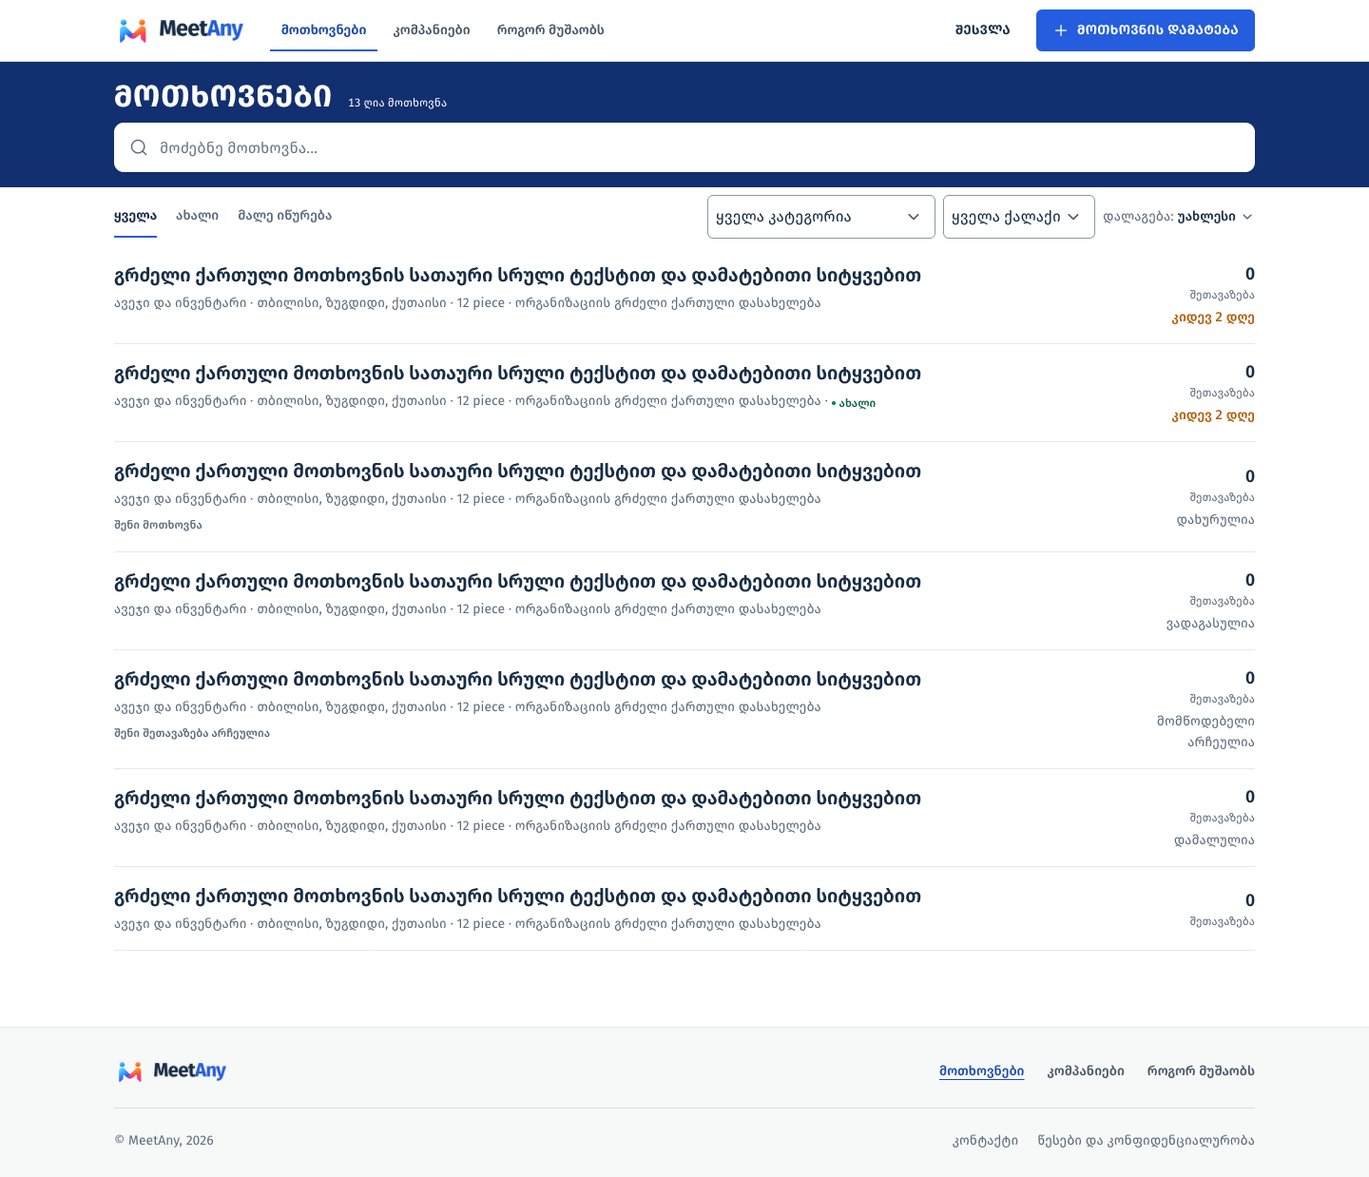
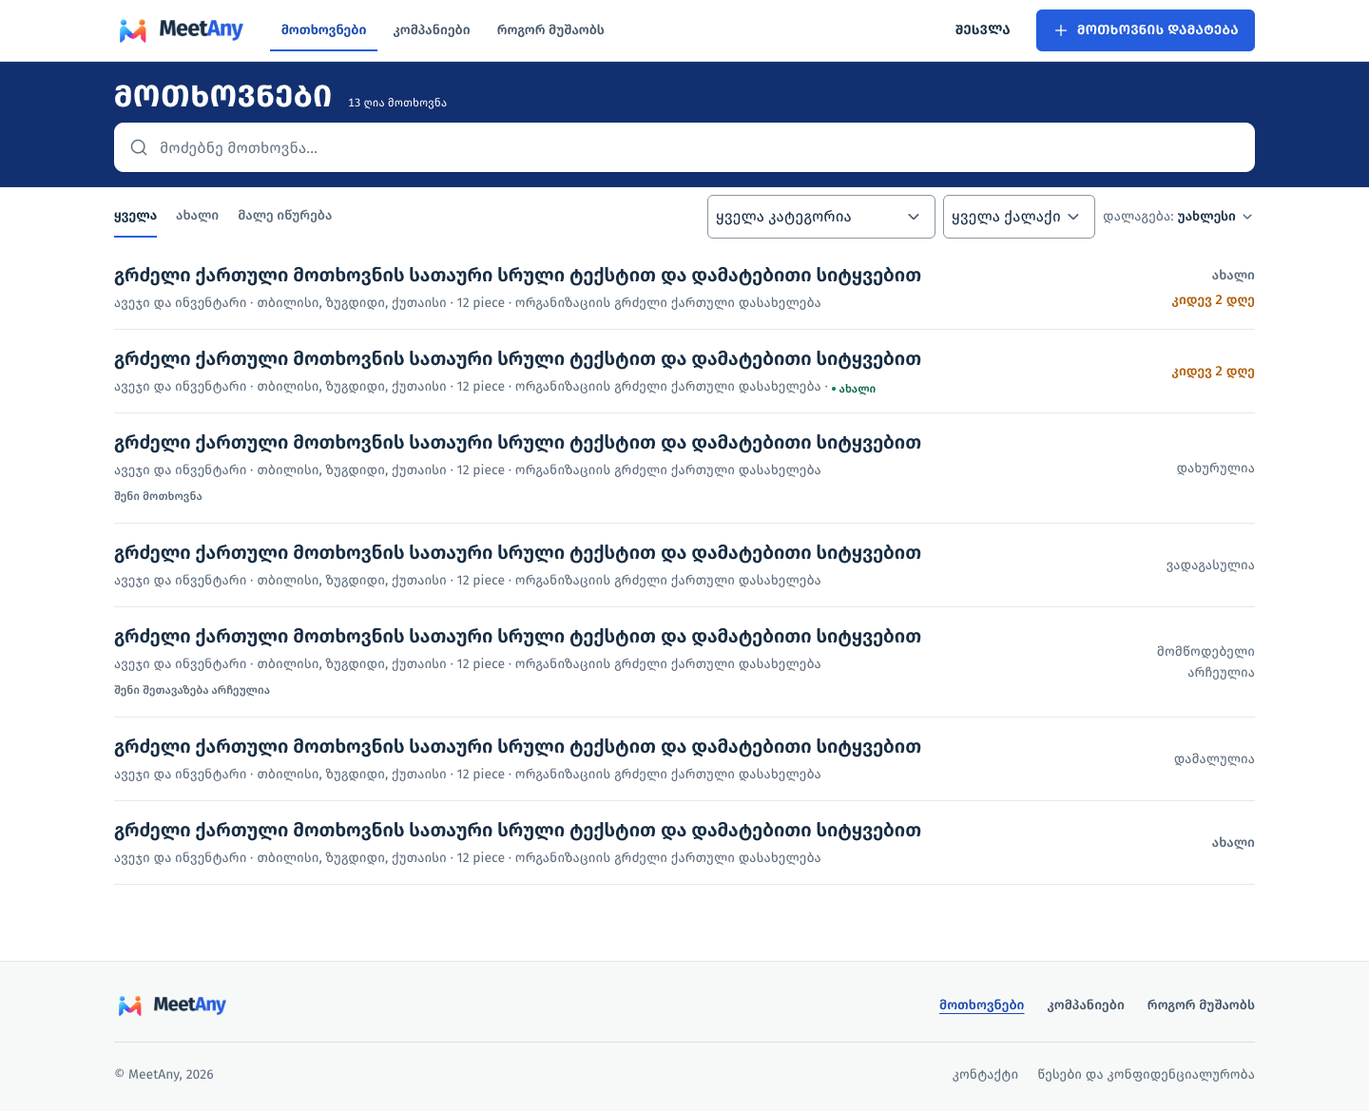
P11 T11.6: catalog review fixes (single axis, photo column, VIP tint, company row)
DevApp-Thread: კატალოგები 3

diff --git a/web/app/styles/marketplace.css b/web/app/styles/marketplace.css
@@ -289,22 +289,25 @@
 .ma-proto .catalog-page :is(.listing-identity h3,.ma-rcard__title){display:block;margin:0;min-width:0;font-size:var(--fs-h3);line-height:var(--lh-h3);font-weight:var(--fw-semibold);font-feature-settings:var(--catalog-title-case);letter-spacing:normal;white-space:normal;overflow:visible;overflow-wrap:anywhere;-webkit-line-clamp:unset}
 .companies-catalog .company-directory-list{display:grid;gap:var(--space-0)}
 .companies-catalog .ma-proto-columns>section{gap:0}
-.ma-proto .companies-catalog .supplier-row{display:grid;grid-template-columns:var(--space-12) minmax(0,1fr) minmax(calc(var(--space-24)*2 + var(--space-3)),max-content);gap:0 var(--space-5);align-items:start}
+.ma-proto .companies-catalog .supplier-row{display:grid;grid-template-columns:var(--space-12) minmax(0,1fr) max-content;gap:0 var(--space-5);align-items:start}
 .companies-catalog .supplier-row>.ma-avatar{grid-area:1 / 1 / 3;width:var(--space-12);height:var(--space-12);background:var(--avatar-bg);color:var(--avatar-text);font-size:var(--fs-title);font-weight:var(--fw-semibold);border-radius:var(--radius-md)}
 .companies-catalog .listing-identity{grid-area:1 / 2;min-width:0}
 .companies-catalog .listing-location{margin:var(--space-1) 0 0;color:var(--text-3);font-size:var(--fs-sm);line-height:var(--lh-sm);white-space:normal;overflow-wrap:anywhere}
+.companies-catalog .listing-about{grid-area:2 / 2;margin:var(--space-2) 0 0;font-size:var(--fs-sm);line-height:var(--lh-sm);color:var(--text-2);white-space:nowrap;overflow:hidden;text-overflow:ellipsis}
 .companies-catalog .listing-products{grid-area:2 / 2;margin:var(--space-2) 0 0;font-size:var(--fs-sm);line-height:var(--lh-sm);font-weight:var(--fw-regular);color:var(--text-2);display:-webkit-box;-webkit-box-orient:vertical;-webkit-line-clamp:2;overflow:hidden;max-height:calc(var(--lh-sm)*2)}
-.companies-catalog .listing-utilities{grid-area:1 / 3;justify-self:end}
+/* Desktop: one action row [save][number], centred on the row. */
+.companies-catalog .listing-actions{grid-area:1 / 3 / 3 / 4;align-self:center;display:flex;align-items:center;gap:var(--space-2)}
 .companies-catalog .listing-utilities button{display:grid;place-items:center;width:var(--tap-min);height:var(--tap-min);min-width:var(--tap-min);padding:0;border:0;border-radius:0;background:transparent;box-shadow:none;transform:none}
 .companies-catalog .listing-utilities button>span{position:absolute;width:1px;height:1px;overflow:hidden;clip-path:inset(50%)}
 .companies-catalog .listing-utilities .icon{width:var(--icon);height:var(--icon)}
-.companies-catalog .supplier-contact{grid-area:2 / 3;display:flex;flex-direction:column;align-items:flex-end;gap:0;min-width:0;max-width:260px}
-.companies-catalog .supplier-contact .ma-btn{width:100%;white-space:normal;overflow-wrap:anywhere;border:1px solid var(--border-strong);border-radius:var(--radius-sm);background:var(--white);color:var(--action);box-shadow:none;min-height:var(--tap-min)}
+.companies-catalog .supplier-contact{display:flex;align-items:center;gap:0;min-width:0;max-width:260px}
+.companies-catalog .supplier-contact .ma-btn{width:100%;min-width:calc(var(--space-24)*2 + var(--space-3));white-space:normal;overflow-wrap:anywhere;border:1px solid var(--border-strong);border-radius:var(--radius-sm);background:var(--white);color:var(--action);box-shadow:none;min-height:var(--tap-min)}
 /* Revealed number stays on one line; the column widens to max-content (≤260px) instead of wrapping. */
 .companies-catalog .supplier-contact .ma-btn[data-contact-action=call]{white-space:nowrap;overflow-wrap:normal}
-.companies-catalog .listing-directions{display:inline-flex;align-items:center;gap:var(--space-1);min-height:var(--tap-min);color:var(--text-link);text-decoration:none}
+.companies-catalog .listing-directions{display:inline-flex;align-items:center;gap:var(--space-1);color:var(--text-link);text-decoration:none;font-weight:var(--fw-medium);white-space:nowrap}
 .companies-catalog .listing-directions .icon{width:var(--icon-sm);height:var(--icon-sm)}
 .companies-catalog .listing-directions:hover{text-decoration:underline}
+.companies-catalog .listing-directions--icon{display:none}
 .companies-catalog .ma-proto-filters{display:grid;grid-template-columns:minmax(0,1fr);gap:var(--space-5)}
 .companies-catalog .ma-proto-filters>*{min-width:0}
 .companies-catalog .filter-rail{border:0;box-shadow:none;padding:0}
@@ -313,6 +316,7 @@
 .companies-catalog .facet-label{white-space:nowrap}
 .companies-catalog .facet-count{font-size:var(--fs-xs);line-height:var(--lh-xs);font-variant-numeric:tabular-nums;color:var(--text-3)}
 .companies-catalog .ma-proto-filter--empty:not([aria-pressed=true]),.companies-catalog .ma-proto-filter--empty:not([aria-pressed=true]) .facet-count{color:var(--text-disabled)}
+.companies-catalog .facet-group-title{margin:var(--space-3) 0 0;font-size:var(--fs-xs);line-height:var(--lh-xs);font-weight:var(--fw-regular);color:var(--text-3);font-feature-settings:var(--catalog-title-case);letter-spacing:normal}
 .companies-catalog .ma-proto-filter[aria-pressed=true]{color:var(--text-link);font-weight:var(--fw-semibold)}
 .companies-catalog .ma-proto-filter:hover{background:var(--bg-subtle)}
 .companies-catalog .filter-section,.companies-catalog .ma-proto-filters>.ma-field{border:0;border-top:1px solid var(--border-subtle);padding:var(--space-5) 0 0;margin:0;min-width:0}
@@ -336,12 +340,14 @@
  .catalog-page .catalog-header .ma-input{height:var(--control-h)}
  .ma-proto .companies-catalog .supplier-row{grid-template-columns:var(--space-12) minmax(0,1fr) var(--tap-min);gap:0 var(--space-3)}
  .companies-catalog .supplier-row>.ma-avatar{grid-area:1 / 1}
- .companies-catalog .listing-products{grid-area:auto / 1 / auto / -1;margin-top:var(--space-2)}
+ .companies-catalog :is(.listing-products,.listing-about){grid-area:auto / 1 / auto / -1;margin-top:var(--space-2)}
+ .companies-catalog .listing-actions{display:contents}
+ .companies-catalog .listing-utilities{grid-area:1 / 3;justify-self:end}
+ .companies-catalog .listing-directions-meta{display:none}
  .companies-catalog .supplier-contact{grid-area:auto / 1 / auto / -1;flex-direction:row;align-items:stretch;gap:var(--space-2);max-width:none;margin-top:var(--space-3)}
- .companies-catalog .supplier-contact .ma-btn{flex:1;width:auto}
- .companies-catalog .listing-directions{flex:none;justify-content:center;width:var(--tap-min);height:var(--tap-min);border:1px solid var(--border-strong);border-radius:var(--radius-sm);background:var(--white)}
+ .companies-catalog .supplier-contact .ma-btn{flex:1;width:auto;min-width:0}
+ .companies-catalog .listing-directions--icon{display:inline-flex;flex:none;justify-content:center;width:var(--tap-min);height:var(--tap-min);border:1px solid var(--border-strong);border-radius:var(--radius-sm);background:var(--white)}
  .companies-catalog .listing-directions .icon{width:var(--icon);height:var(--icon)}
- .companies-catalog .listing-directions__text{position:absolute;width:1px;height:1px;overflow:hidden;clip-path:inset(50%);white-space:nowrap}
  .catalog-page .r2-results-controls{width:100%}
  .catalog-page .r2-results-controls>.catalog-sort{margin-left:auto}
  .catalog-page .r2-results-controls .catalog-sort .ma-select{height:var(--tap-min);min-height:var(--tap-min)}
@@ -350,12 +356,20 @@
 /* Requests use the same record surface, with an optional photo column. */
 .requests-catalog .request-card-grid{display:grid;grid-template-columns:minmax(0,1fr);gap:var(--space-0)}
 .requests-catalog .request-card-grid[data-tab-changed] [data-enter]{animation:none}
-.ma-proto .requests-catalog .request-card{display:grid;grid-template-columns:minmax(0,1fr) calc(var(--space-20)*2);gap:var(--space-5);height:auto;align-items:start}
-.ma-proto .requests-catalog .request-card--photo{grid-template-columns:calc(var(--space-24) + var(--space-6)) minmax(0,1fr) calc(var(--space-20)*2)}
-.ma-proto .requests-catalog .request-card--vip{border-left:3px solid var(--tier-vip-badge-bg);background:var(--tier-vip-bg);padding-block:var(--space-6);padding-inline:var(--space-3) var(--space-4)}
+/* One text axis: text always starts the row; the photo is a fixed column before the offers column,
+   left empty when a row has no photo. Only VIP keeps its large photo first. */
+.ma-proto .requests-catalog .request-card{display:grid;grid-template-columns:minmax(0,1fr) calc(var(--space-24) + var(--space-6)) calc(var(--space-20)*2);gap:var(--space-5);height:auto;align-items:start}
+.requests-catalog .request-card-content{grid-area:1 / 1}
+.requests-catalog .request-card-visual{grid-area:1 / 2}
+.requests-catalog .request-card-status{grid-area:1 / 3}
+/* VIP tint and stripe sit outside the row box, so its text and offers columns keep the list's edges. */
+.ma-proto .requests-catalog .request-card--vip{background:transparent;padding-block:var(--space-6)}
+.ma-proto .requests-catalog .request-card--vip::before{content:"";display:block;position:absolute;z-index:-1;inset:0 calc(-1 * var(--space-4));border-left:3px solid var(--tier-vip-badge-bg);background:var(--tier-vip-bg)}
+.ma-proto .requests-catalog .request-card--vip:hover{background:transparent}
 .ma-proto .requests-catalog .request-card--vip .ma-rcard__title{font-size:var(--fs-h2);line-height:var(--lh-h2)}
-.ma-proto .requests-catalog .request-card--vip:hover{background:var(--tier-vip-bg)}
 .ma-proto .requests-catalog .request-card--vip.request-card--photo{grid-template-columns:calc(var(--space-20)*2 + var(--space-10)) minmax(0,1fr) calc(var(--space-20)*2)}
+.requests-catalog .request-card--vip.request-card--photo .request-card-visual{grid-area:1 / 1}
+.requests-catalog .request-card--vip.request-card--photo .request-card-content{grid-area:1 / 2}
 .requests-catalog .ma-rcard--mine::before{display:none}
 .requests-catalog .request-card-visual{width:100%;aspect-ratio:3 / 2;border-radius:var(--radius-md);overflow:hidden}
 .requests-catalog .request-card-visual img{display:block;width:100%;height:100%;object-fit:cover}
@@ -365,6 +379,7 @@
 .requests-catalog .request-card-offers{display:grid;justify-items:end}
 .requests-catalog .request-card-offers strong{font-size:var(--fs-title);line-height:var(--lh-title);font-weight:var(--fw-semibold);color:var(--text);font-variant-numeric:tabular-nums}
 .requests-catalog .request-card-offers span{font-size:var(--fs-xs);line-height:var(--lh-xs);color:var(--text-3)}
+.requests-catalog .request-card-offers--none{font-size:var(--fs-sm);line-height:var(--lh-sm);font-weight:var(--fw-medium);color:var(--text-3)}
 .requests-catalog .request-card-meta-status{display:none}
 .requests-catalog .request-card-meta-status>span{white-space:nowrap}
 .requests-catalog :is(.request-card-urgent,.request-card-meta-urgent){color:var(--warning-600);font-weight:var(--fw-medium)}
@@ -386,8 +401,11 @@
 @media(min-width:768px){.requests-catalog .catalog-filter-toggle{display:none}}
 @keyframes catalog-pulse{0%,100%{opacity:1}50%{opacity:.7}}
 @media(max-width:767px){
- .ma-proto .requests-catalog .request-card{grid-template-columns:minmax(0,1fr);gap:var(--space-3)}
- .ma-proto .requests-catalog .request-card--photo,.ma-proto .requests-catalog .request-card--vip.request-card--photo{grid-template-columns:var(--space-24) minmax(0,1fr)}
+ .ma-proto .requests-catalog .request-card{grid-template-columns:minmax(0,1fr) var(--space-24);gap:var(--space-3)}
+ .ma-proto .requests-catalog .request-card:not(.request-card--photo),.ma-proto .requests-catalog .request-card--vip,.ma-proto .requests-catalog .request-card--vip.request-card--photo{grid-template-columns:minmax(0,1fr)}
+ .requests-catalog .request-card--vip.request-card--photo .request-card-content{grid-area:2 / 1}
+ .requests-catalog .request-card--vip .request-card-visual{border-radius:var(--radius-md)}
+ .ma-proto .requests-catalog .request-card--vip .ma-rcard__title{font-size:var(--fs-h3);line-height:var(--lh-h3)}
  .requests-catalog .request-card-status{display:none}
  .requests-catalog .request-card-meta-status{display:inline}
  .requests-catalog .request-board-tabs{flex-basis:100%;flex-wrap:nowrap;overflow-x:auto;scrollbar-width:none}

diff --git a/web/app/components/market/RequestRow.tsx b/web/app/components/market/RequestRow.tsx
@@ -38,9 +38,6 @@ export function RequestRow({ r, priority = false, tier, entranceIndex }: { r: Re
   const urgent = r.state === "open" && r.daysLeft <= 7;
   return (
     <article style={entranceIndex != null && entranceIndex < 12 ? { "--i": entranceIndex } as CSSProperties : undefined} data-enter={entranceIndex != null && entranceIndex < 12 ? "" : undefined} className={`ma-rcard ma-rcard--row request-card${tier ? ` request-card--${tier}` : ""}${r.photo && r.photo !== failedPhoto ? " request-card--photo" : ""}${r.isOwn ? " ma-rcard--mine" : closedLike ? " ma-rcard--closed" : ""}`}>
-      {r.photo && r.photo !== failedPhoto ? <div className="request-card-visual" aria-hidden="true">
-        <img src={r.photo} alt="" width={240} height={160} loading={priority ? "eager" : "lazy"} onError={() => setFailedPhoto(r.photo)} />
-      </div> : null}
       <div className="request-card-content">
         {tier ? <span className={`request-tier-badge request-tier-badge--${tier}`}>{tier === "vip" ? "VIP" : "ტოპ"}</span> : null}
         <h2 className="ma-rcard__title"><Link className="card-main-link" href={href}>{r.title}</Link></h2>
@@ -54,8 +51,13 @@ export function RequestRow({ r, priority = false, tier, entranceIndex }: { r: Re
         {r.showOwnOfferBadge && r.ownOfferStatus ? <span className={`ma-badge ma-badge--${r.ownOfferStatus === "chosen" ? "success" : "info"}`}>შენი შეთავაზება {r.ownOfferStatus === "chosen" ? "არჩეულია" : "გაგზავნილია"}</span> : null}
       </div> : null}
       </div>
+      {r.photo && r.photo !== failedPhoto ? <div className="request-card-visual" aria-hidden="true">
+        <img src={r.photo} alt="" width={240} height={160} loading={priority ? "eager" : "lazy"} onError={() => setFailedPhoto(r.photo)} />
+      </div> : null}
       <div className="request-card-status">
-        <span className="request-card-offers"><strong>{r.offerCount}</strong> <span>შეთავაზება</span></span>
+        {/* No offers yet reads as a soft "new", not "0"; left empty when the "new" badge already says so or the request is no longer open. */}
+        {r.offerCount > 0 ? <span className="request-card-offers"><strong>{r.offerCount}</strong> <span>შეთავაზება</span></span>
+          : r.isNew || r.state !== "open" ? null : <span className="request-card-offers--none">ახალი</span>}
         {deadline ? <span className={urgent ? "request-card-urgent" : undefined}>{deadline}</span> : null}
       </div>
     </article>

diff --git a/web/app/components/market/CompanyListingCard.tsx b/web/app/components/market/CompanyListingCard.tsx
@@ -32,14 +32,20 @@ export function CompanyListingCard({ c, entranceIndex }: { c: CompanyListingData
       <CompanyAvatar name={c.name} size="lg" />
       <div className="listing-identity">
         <h3><Link className="card-main-link" href={href}>{c.name}</Link></h3>
-        <p className="listing-location">{[categories[c.industry] || c.industry, places].filter(Boolean).join(" · ")}</p>
+        <p className="listing-location">{[categories[c.industry] || c.industry, places].filter(Boolean).join(" · ")}
+          {/* Desktop: directions is a text link at the end of the meta line; mobile uses the icon button below. */}
+          {c.directions ? <span className="listing-directions-meta"> · <a className="listing-directions" href={c.directions} target="_blank" rel="noopener noreferrer" aria-label={`${c.name} — მიმართულება Google Maps-ზე`}><Icon name="arrow-up-right" />მიმართულება</a></span> : null}
+        </p>
       </div>
-      <div className="listing-utilities"><SaveCompanyButton id={c.id} /></div>
-      {c.offers.length ? <p className="listing-products">{c.offers.join(" · ")}</p> : null}
-      {c.phone || c.directions ? <div className="supplier-contact">
-        {c.phone ? <CallButton phone={c.phone} variant="secondary" contactId={c.id} source="company-list" /> : null}
-        {c.directions ? <a className="listing-directions" href={c.directions} target="_blank" rel="noopener noreferrer" aria-label={`${c.name} — მიმართულება Google Maps-ზე`}><Icon name="arrow-up-right" /><span className="listing-directions__text">მიმართულება</span></a> : null}
-      </div> : null}
+      {c.offers.length ? <p className="listing-products">{c.offers.join(" · ")}</p>
+        : c.about ? <p className="listing-about">{c.about}</p> : null}
+      <div className="listing-actions">
+        <div className="listing-utilities"><SaveCompanyButton id={c.id} /></div>
+        {c.phone || c.directions ? <div className="supplier-contact">
+          {c.phone ? <CallButton phone={c.phone} variant="secondary" contactId={c.id} source="company-list" /> : null}
+          {c.directions ? <a className="listing-directions listing-directions--icon" href={c.directions} target="_blank" rel="noopener noreferrer" aria-label={`${c.name} — მიმართულება Google Maps-ზე`}><Icon name="arrow-up-right" /></a> : null}
+        </div> : null}
+      </div>
     </article>
   );
 }

diff --git a/web/app/components/market/FacetList.tsx b/web/app/components/market/FacetList.tsx
@@ -25,7 +25,10 @@ export function FacetList({
   activeId: string;
   onSelect: (id: string) => void;
 }) {
-  const entries: Facet[] = [{ id: "", label: allLabel, count: allCount }, ...[...all].sort((a, b) => b.count - a.count)];
+  const sorted = [...all].sort((a, b) => b.count - a.count);
+  // Industries with no companies sit in one labelled group at the end, all visible (no toggle).
+  const empty = loading ? [] : sorted.filter(f => f.count === 0);
+  const entries: Facet[] = [{ id: "", label: allLabel, count: allCount }, ...(loading ? sorted : sorted.filter(f => f.count !== 0))];
   const button = (f: Facet) => (
     <button
       key={f.id}
@@ -43,6 +46,10 @@ export function FacetList({
   return (
     <div>
       {entries.map(button)}
+      {empty.length ? <>
+        <p className="facet-group-title">სხვა დარგები</p>
+        {empty.map(button)}
+      </> : null}
     </div>
   );
 }

diff --git a/web/app/styles/tokens.css b/web/app/styles/tokens.css
@@ -47,7 +47,7 @@
   --brand-gradient:linear-gradient(120deg,#4CCEFC 0%,#2A6DFB 30%,#C734B7 55%,#FC5632 78%,#FE8E2F 100%);
 
   /* P9 request tier prototype: aliases of the existing brand palette. */
-  --tier-vip-bg:var(--orange-50);
+  --tier-vip-bg:color-mix(in srgb,var(--theme-accent) 4%,#fff);
   --tier-vip-border:var(--orange-300);
   --tier-vip-text:var(--orange-700);
   --tier-vip-badge-bg:var(--orange-400);

diff --git a/web/qa/shots/ideal-0924/README.md b/web/qa/shots/ideal-0924/README.md
@@ -1,11 +1,34 @@
-# P11 T11.4 — კატალოგები ცივი კრიტიკის შემდეგ, 2026-09-24
+# P11 T11.6 — კატალოგები მშობლის მიმოხილვის შემდეგ (8 პუნქტი), 2026-09-24
 
-`v1/` = T11.3-ის კადრები **კრიტიკამდე** (`../../DESIGN-CRITIQUE-GE.md`). ამ საქაღალდის კადრები = T11.4, კრიტიკის #1–#12 და #15 გამოსწორების შემდეგ (#13/#14 განზრახ არ შეცვლილა).
+`v1/` = T11.3-ის კადრები **კრიტიკამდე** (`../../DESIGN-CRITIQUE-GE.md`). `v2/` = T11.4-ის კადრები (კრიტიკის #1–#12, #15), **მშობლის მიმოხილვამდე**. ამ საქაღალდის `requests-*`/`companies-*` = T11.6 (ქვემოთ, პუნქტები 1–8). დანარჩენი ქვეთავები T11.4/T11.5a-ის ისტორიაა.
+
+## T11.6 — რა შეიცვალა
+
+- **1** /requests/: ტექსტი ყველა ჩვეულებრივ/ტოპ რიგში x=120; ფოტო 120×80 მარჯვნივ, ფიქსირებული სვეტი შეთავაზებების წინ (`minmax(0,1fr) 120px 160px`, gap 20); ფოტოს გარეშე სვეტი ცარიელია. VIP: ფოტო 200×133 მარცხნივ, სათაური x=340.
+- **2** VIP-ის ფონი და 3px ზოლი `::before`-ითაა რიგის გარეთ (`inset:0 -16px`); რიგის კიდეები = სიის კიდეები (1440: 120 / 1320).
+- **3** `offerCount === 0` → სვეტში „ახალი“ 14/500 `--text-3`; თუ `isNew` ბეიჯი ჩანს ან მოთხოვნა ღია აღარაა — სვეტი ცარიელია.
+- **4** `--tier-vip-bg` = `color-mix(in srgb,var(--theme-accent) 4%,#fff)`.
+- **5** 390: VIP ფოტო სათაურის ზემოთ სრული სიგანით 3:2 (358×239), სათაური 18/26; სხვა რიგებში ფოტო 96×64 მარჯვნივ, ტექსტი x=16 (ფოტოს გარეშე რიგი სრული სიგანისაა).
+- **6** /companies/ 1440: [შენახვა 44][ნომრის ნახვა] ერთ ხაზზე, რიგის ცენტრში; „↗ მიმართულება“ მეტა-ხაზის ბოლოს 14/500 `--text-link`. 390-ზე [ნომრის ნახვა][↗ 44] უცვლელია (ორი ბმული, ერთი `display:none` თითო ზომაზე).
+- **7** `offers` ცარიელია → `c.about` ერთ ხაზზე ellipsis-ით (დემო მონაცემებში ასეთი კომპანია არაა; DOM-ში ჩასმით შემოწმდა: 14/22, nowrap, ellipsis, რიგი 117px).
+- **8** FacetList: ნულოვანი დარგები ბოლოში „სხვა დარგები“ (12/18 `--text-3`) ქვეშ, ყველა ჩანს.
+
+| გაზომვა (1440) | v2 | T11.6 |
+| --- | --- | --- |
+| requests: სათაურის x (ჩვ./ფოტო/ტოპ) | 120 / 260 / 260 | 120 / 120 / 120 |
+| requests: VIP ფოტო / სათაური / რიცხვის მარჯვენა | 135 / 355 / 1304 | 120 / 340 / 1320 (ზოლი 104-ზე, რიგის გარეთ) |
+| companies: რიგი პროდუქტებით | 175 | 121 (−31%); „ხის ხაზი“ 143 (−18%, პროდუქტები 2 ხაზზე: 583px > 556px) |
+| companies: რიგი პროდუქტების გარეშე | 131 | 87 (−34%) |
+| companies: ნომრის გახსნისას | 175→175 | 121→143 (ნომერი 253px → პროდუქტები 2 ხაზზე) |
+
+390-ზე requests-ის პირველ ეკრანზე 1 სრული რიგია (VIP სრული ფოტო), assert 2→1 ამ გვერდისთვის.
+
+# P11 T11.4 — კატალოგები ცივი კრიტიკის შემდეგ
 
 წყარო: `http://localhost:3001`, Chrome/Playwright. გაშვება `site/web`-იდან:
 
 ```sh
-node qa/ideal-shots.mjs companies requests
+node qa/ideal-shots.mjs companies requests   # T11.6: ბეჭდავს თითო რიგის ღერძებს (rows)
 node qa/ideal-qa.mjs
 node qa/ideal-qa.mjs --fixtures
 npm run lint
